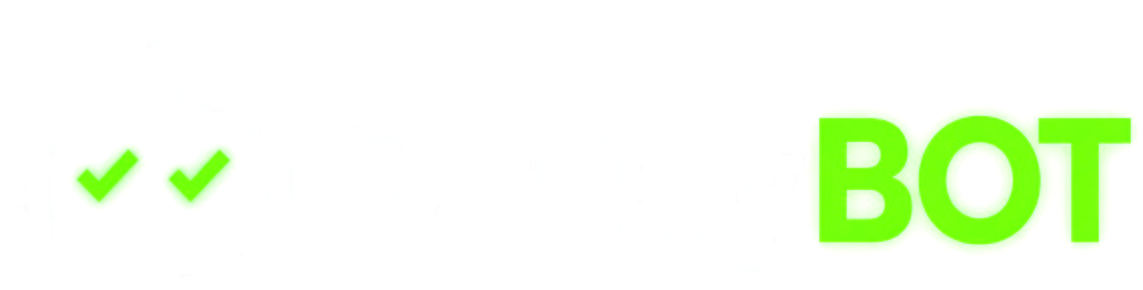
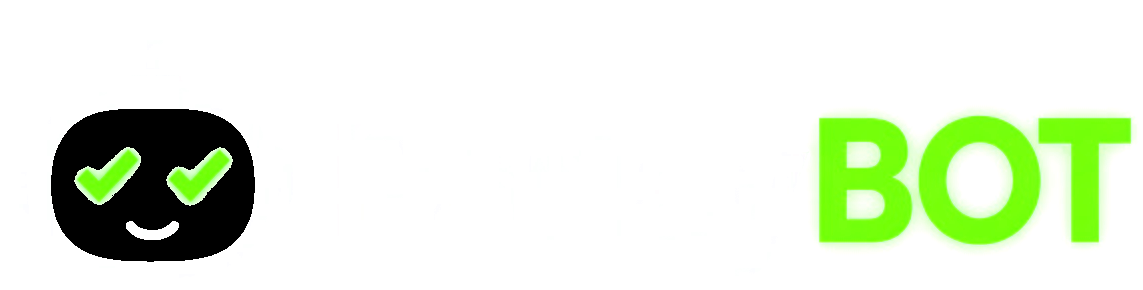
Keep the day-mode robot visor black and move the settings gear.
Fill the transparent face behind the check-mark eyes with solid black, and place the gear on the logo row in both themes.

Changed region(s): [[0.0306, 0.3724, 0.245, 0.9]]

diff --git a/src/ui/views.ts b/src/ui/views.ts
@@ -75,7 +75,7 @@ function shell(active: ViewId, inner: string): string {
     ([id, label]) =>
       `<button type="button" class="${id === active ? "on" : ""}" data-act="nav" data-view="${id}">${label}${id === "live" ? `<i class="livedot">●</i>` : ""}</button>`,
   ).join("");
-  return `<div class="samplebar">SAMPLE DATA — Edge feed rows are the attached fixture</div><div class="wrap"><header class="brand"><img class="logo" src="${asset("brand/parlaybot-header.png")}" alt="ParlayBOT"></header><nav class="topnav">${nav}</nav>${inner}</div>`;
+  return `<div class="samplebar">SAMPLE DATA — Edge feed rows are the attached fixture</div><div class="wrap"><header class="brand"><img class="logo" src="${asset("brand/parlaybot-header.png")}?v=visor" alt="ParlayBOT"><button type="button" class="gear" data-act="settings" aria-label="Settings">⚙</button></header><nav class="topnav">${nav}</nav>${inner}</div>`;
 }
 
 function bookToggle(book: AppState["book"]): string {
@@ -185,7 +185,7 @@ function today(state: AppState, board: Board): string {
       : "Showing plays live on DraftKings · DK price incl. fee (Florida DK Predictions). Legs are picked on Hard Rock. TD City hidden (no plays today).";
   const left = `${bookToggle(state.book)}${recapCard(board)}<div class="card"><h2>Last 14 days</h2><div class="sub">${esc(windowed.headline)}</div><div class="priv">🔒 Only you can see this</div>${chartSvg(windowed.points)}<div class="rings">${rings}</div></div>`;
   const right = `<div class="sub" style="margin:2px 0 4px"><b>Games tonight</b> · tap a game for Feed · Box · VS</div>${games}${productChips(board, state)}<div class="sub" style="margin:-4px 0 10px">${bookNote}</div>${blocks || `<p class="empty">No plays in this filter.</p>`}`;
-  return `<div class="hdrtop"><div class="sub">${esc(board.dateLabel)}</div><button type="button" class="gear" data-act="settings" aria-label="Settings">⚙</button></div><div class="home"><div>${left}</div><div>${right}</div></div>`;
+  return `<div class="sub date-line">${esc(board.dateLabel)}</div><div class="home"><div>${left}</div><div>${right}</div></div>`;
 }
 
 function renderLiveLeg(leg: LiveLeg): string {

diff --git a/src/styles.css b/src/styles.css
@@ -67,8 +67,9 @@ body.book-dk .chk input{accent-color:#2ea85a}
 .topnav button{flex:1 1 0;justify-content:center;padding:0 2px;font-size:.8125rem;min-width:0;white-space:nowrap;min-height:44px;display:flex;align-items:center;border-radius:12px;color:#a9b4c2;font-weight:700;background:none;border:0}
 .topnav button.on{color:#fff;background:#1d2430}
 .livedot{color:#ff5c5c;font-style:normal;margin-left:3px}
-.brand{display:flex;align-items:center;padding:6px 0 4px}
-.brand .logo{height:52px;width:auto;max-width:100%;display:block}
+.brand{display:flex;align-items:center;justify-content:space-between;gap:12px;padding:6px 0 4px}
+.brand .logo{height:52px;width:auto;max-width:calc(100% - 56px);display:block}
+.brand .gear{flex:none}
 @media(min-width:900px){.brand .logo{height:64px}}
 html.lg .brand .logo,html.xl .brand .logo{height:54px}
 .chip{display:inline-flex;align-items:center;gap:4px;border-radius:999px;padding:2px 9px;font-size:.75rem;font-weight:700;background:#1d2430;color:#cfd6df;border:1px solid #2c3542;white-space:nowrap}
@@ -116,6 +117,7 @@ html.lg .brand .logo,html.xl .brand .logo{height:54px}
 .sw.no{background:#3a4452}
 .sw.no::after{right:auto;left:3px}
 .hdrtop{display:flex;justify-content:space-between;align-items:center}
+.date-line{margin:2px 0 10px}
 .gear{width:44px;height:44px;border-radius:12px;background:#1d2430;display:flex;align-items:center;justify-content:center;font-size:1.25rem;border:0;color:inherit}
 .sharecard{background:linear-gradient(160deg,#1b3a2a,#0d1117 70%);border:2px solid #76f53a;border-radius:20px;padding:20px;max-width:340px;margin:12px auto;position:relative}
 .sc-top{display:flex;justify-content:space-between;font-weight:800;letter-spacing:.06em}
